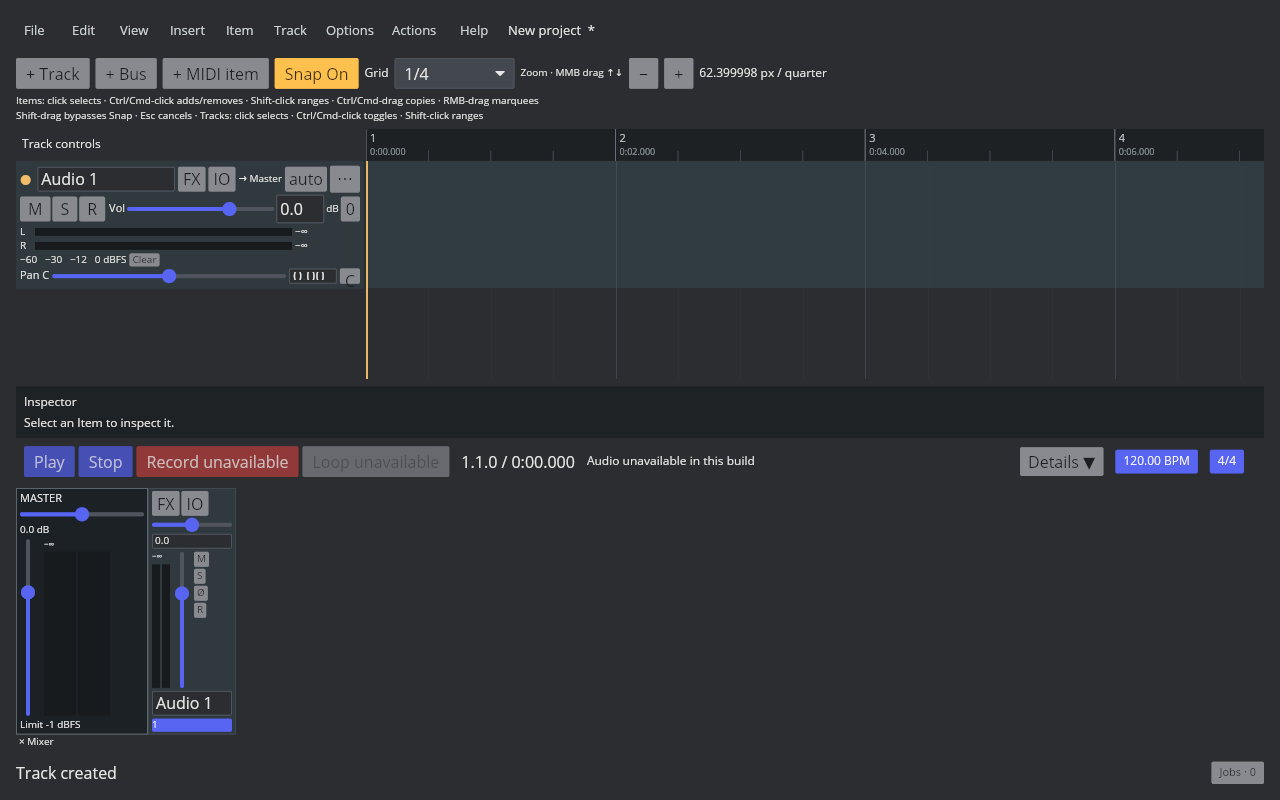
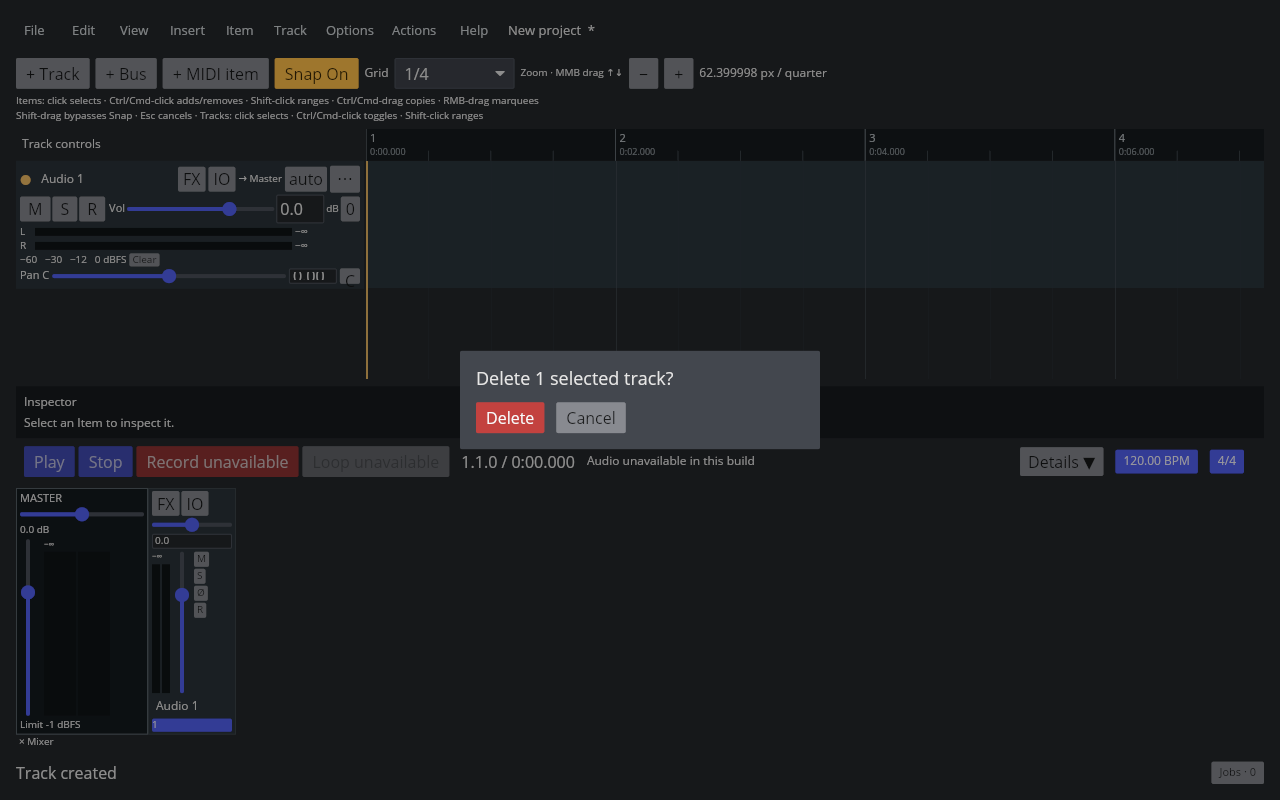
fix(input): make track names select before rename

diff --git a/crates/aaadaw/src/app/view/arrangement.rs b/crates/aaadaw/src/app/view/arrangement.rs
@@ -1162,14 +1162,27 @@ pub(super) fn track_fx_button(track: &Track) -> Element<'static, Message> {
 
 pub(super) fn track_name_input<'a>(app: &'a App, track: &'a Track) -> Element<'a, Message> {
     let track_id = track.id();
-    let has_error = app
-        .track_draft_errors
-        .contains_key(&(track_id, TrackDraftField::Name));
-    let edited_name = app
+    let name = app
         .track_name_edits
         .get(&track_id)
         .map_or(track.name(), String::as_str);
-    let input = text_input("Track name", edited_name)
+    if !app.track_name_edits.contains_key(&track_id) {
+        let label = mouse_area(
+            container(text(name).size(12))
+                .width(Length::Fill)
+                .padding([2, 4]),
+        )
+        .on_press(Message::Timeline(TimelineEvent::SelectTrackWithModifiers {
+            track_id,
+            modifiers: app.keyboard_modifiers,
+        }))
+        .on_double_click(Message::BeginTrackNameEdit(track_id));
+        return label.into();
+    }
+    let has_error = app
+        .track_draft_errors
+        .contains_key(&(track_id, TrackDraftField::Name));
+    let input = text_input("Track name", name)
         .id(super::super::messages::track_name_input_id(track_id))
         .on_input(move |name| Message::TrackNameChanged(track_id, name))
         .on_submit(Message::CommitTrackName(track_id))

diff --git a/crates/aaadaw/src/app/tests.rs b/crates/aaadaw/src/app/tests.rs
@@ -7325,8 +7325,20 @@ fn track_rename_is_undoable() {
     let _ = app.update(Message::AddTrack);
     let track_id = app.project.tracks()[0].id();
 
+    assert!(!app.track_name_edits.contains_key(&track_id));
+    let _ = app.update(Message::Timeline(
+        super::super::timeline::TimelineEvent::SelectTrack(track_id),
+    ));
+    assert_eq!(
+        app.timeline.delete_focus,
+        super::super::timeline::DeleteFocusTarget::TrackPanel
+    );
     let _ = app.update(Message::BeginTrackNameEdit(track_id));
     assert_eq!(app.track_name_edits.get(&track_id).unwrap(), "Audio 1");
+    assert_eq!(
+        app.timeline.delete_focus,
+        super::super::timeline::DeleteFocusTarget::TrackPanel
+    );
     let _ = app.update(Message::TrackNameChanged(track_id, "Lead Vox".to_owned()));
     let _ = app.update(Message::CommitTrackName(track_id));
     assert_eq!(app.project.tracks()[0].name(), "Lead Vox");

diff --git a/crates/aaadaw/src/app/mod.rs b/crates/aaadaw/src/app/mod.rs
@@ -9443,6 +9443,7 @@ impl App {
         self.track_name_edits
             .insert(track_id, track.name().to_owned());
         self.begin_track_draft(track_id, TrackDraftField::Name);
+        self.timeline.delete_focus = timeline::DeleteFocusTarget::TrackPanel;
         self.timeline.select_track_only(track_id);
         let input_id = messages::track_name_input_id(track_id);
         Task::batch([

diff --git a/docs/reaper-parity/progress.md b/docs/reaper-parity/progress.md
@@ -885,7 +885,7 @@ MIDI Properties 仍缺 item timebase、take playback rate/pitch/mix、剩余 sou
 
 ### 2026-10-14 Delete by focus：轨道确认与 no-prompting
 
-REAPER 7.82 原生探针在 TCP 点击后同时选中轨道与 MIDI item，再按 Delete，显示 `Delete 1 selected track?`；取消没有项目变化。将焦点保持在 TCP 并运行 Action List 的 `- no prompting` 变体会直接删除轨道及其 MIDI item，原厂状态变化计数只增加一次。AAADAW 现维护 Arrange、TrackPanel、Automation 三类最近目标区；普通 Delete 在 TrackPanel 弹确认框，Escape/Cancel/遮罩取消无修改，确认经现有依赖顺序删除事务执行；no-prompting 使用同一事务但不弹框。Arrange item 和 Automation point 根据各自目标区删除。焦点状态目前限定为主 Arrange/Mixer 内最后一次目标区交互，不等同全部 REAPER 子窗口和控件的真实键盘焦点。
+REAPER 7.82 原生探针在 TCP 点击后同时选中轨道与 MIDI item，再按 Delete，显示 `Delete 1 selected track?`；取消没有项目变化。将焦点保持在 TCP 并运行 Action List 的 `- no prompting` 变体会直接删除轨道及其 MIDI item，原厂状态变化计数只增加一次。AAADAW 现维护 Arrange、TrackPanel、Automation 三类最近目标区；普通 Delete 在 TrackPanel 弹确认框，Escape/Cancel/遮罩取消无修改，确认经现有依赖顺序删除事务执行；no-prompting 使用同一事务但不弹框。Arrange item 和 Automation point 根据各自目标区删除。实窗点击轨道名后 Delete 也已验证进入轨道确认；轨道名现在单击选中、双击才进入名称编辑。焦点状态目前限定为主 Arrange/Mixer 内最后一次目标区交互，不等同全部 REAPER 子窗口和控件的真实键盘焦点。
 
 实窗截图验证了 AAADAW 确认框和无提示删除后的空轨道状态；原厂对应截图及计数证据见 [Delete by focus runtime evidence](../verification/reaper-parity/fixtures/delete-by-focus-runtime-native.tsv)。AAADAW nightly + Cranelift 应用 551/551 测试通过；Stable workspace all-target Clippy `-D warnings` 和 fmt/diff 检查通过。未做完整焦点窗口或像素验收，`INPUT-BIND-001` 仍为 `in_progress`。
 
@@ -901,3 +901,9 @@ Core 快照/Undo、Storage schema 38 迁移、App Apply/Cancel/Undo/Redo 和 Eng
 多个 Audio/MIDI item 同时选择时，Item Properties 显示共同 Mute 值；值不一致时明确显示 Mixed values，并提供直接的 Mute all/Unmute all 目标。用户应用后，所有实际需要变化的 item 共享一个 Undo/Redo 步骤。包含 MIDI 的 selection 只有在 MIDI item 确实需要改变 mute 时才会在播放中拒绝修改，避免现有 MIDI 播放计划过期。
 
 回归验证混合 Audio/MIDI selection 的 Mixed 状态、统一 Apply、单步 Undo/Redo、Cancel，以及播放中 MIDI 改变保护和项目 I/O 忙碌时仍可编辑草稿；Nightly + Cranelift aaadaw 应用层 nextest 549/549 passed，0 skipped。Stable workspace all-target Clippy `-D warnings`、fmt 与 diff 检查通过。本轮没有 AAADAW 实窗截图或新 REAPER 探针；批量属性目前只覆盖 Mute，其他字段、混合值布局与完整原厂几何仍未完成，`ITEM-PROPERTIES-001` 保持 `in_progress`。
+
+### 2026-10-14 TCP 轨道名单击与双击编辑
+
+原有交互把轨道名单击直接交给文本输入框，导致 Delete 被输入控件消费，无法像 REAPER TCP 那样以轨道为目标。名称现在默认是只读标签：单击选择轨道并设置 TrackPanel 删除目标，双击进入现有可撤销名称编辑器；编辑中的文本控件继续接收键盘输入。实窗验证了单击后 Delete 打开轨道确认，以及双击后名称输入框获得焦点；截图和哈希分别记录在 [Delete by focus runtime evidence](../verification/reaper-parity/fixtures/delete-by-focus-runtime-native.tsv) 与 [双击编辑 fixture](../verification/reaper-parity/fixtures/track-name-double-click-aaadaw.tsv)。
+
+Nightly + Cranelift AAADAW 测试 551/551 passed；Stable workspace all-target Clippy `-D warnings`、fmt 和 diff 检查通过。`track_rename_is_undoable` 覆盖名称编辑、提交和可撤销行为。该修正只覆盖 TCP/MCP 名称控件；`INPUT-FOCUS-001` 继续 `in_progress`，完整文本控件、键盘布局、插件和子窗口焦点矩阵尚未验收。

diff --git a/docs/verification/reaper-parity/action-list-and-input.md b/docs/verification/reaper-parity/action-list-and-input.md
@@ -120,7 +120,7 @@ AAADAW 注册稳定 ID `item.snap-left`、`item.snap-right` 与 `item.snap-neare
 
 Linux REAPER 7.82 / Default 7 的默认动作导出 `linux-7.82/actions.tsv` 记录 Main action 40697 `Remove items/tracks/envelope points (depending on focus)` 的默认键为 Delete；相邻的 40006 `Item: Remove items` 没有默认键。隔离 REAPER 与 AAADAW 的 701×475 Action List 窗口截图保存在[参照](fixtures/delete-by-focus-action-list-native.png)和[当前 AAADAW](fixtures/delete-by-focus-no-prompt-aaadaw.png)。两边均显示主动作与无提示变体；默认动作 TSV 只为主动作给出 40697，因此无提示变体使用 AAADAW 稳定 ID `edit.delete-focused-no-prompting`，不绑定默认键。Item 菜单命令 `Remove items` 也不绑定快捷键，Delete 只绑定 `edit.delete-focused`，不再错误显示 Delete/Backspace。
 
-AAADAW 现按最近一次目标区交互路由 Delete：Arrange 的 item/空白区选择指向 items，TCP/MCP 轨道选择指向 tracks，automation 点选择指向 automation point。轨道面板获得目标后，普通 Delete 显示 `Delete N selected track(s)?` 确认框；Cancel、Escape 或点遮罩不改工程，确认后依赖轨道先删，整组只占一步 Undo。`edit.delete-focused-no-prompting` 则直接执行同一轨道事务。两种入口都只作用于当前目标区，不再按“有 item 就优先”跨区猜焦点。
+AAADAW 现按最近一次目标区交互路由 Delete：Arrange 的 item/空白区选择指向 items，TCP/MCP 轨道选择指向 tracks，automation 点选择指向 automation point。TCP/MCP 名称默认显示为不可编辑标签；单击名称选轨，双击进入文本编辑，编辑时文本控件按自身焦点处理 Delete。轨道面板获得目标后，普通 Delete 显示 `Delete N selected track(s)?` 确认框；Cancel、Escape 或点遮罩不改工程，确认后依赖轨道先删，整组只占一步 Undo。`edit.delete-focused-no-prompting` 则直接执行同一轨道事务。两种入口都只作用于当前目标区，不再按“有 item 就优先”跨区猜焦点。
 
 隔离 REAPER 探针选中一条轨道和一个 MIDI item 后，点击 TCP 并按 Delete，原厂弹出 `Delete 1 selected track?`；取消时项目没有变化。保持 TCP 目标再从 Action List Run 无提示变体，轨道与 MIDI item 被直接移除，探针状态从 1/1 变成 0/0，原厂项目状态只新增一次。见 [原厂确认框](fixtures/delete-track-confirmation-native.png)、[原厂无提示执行后](fixtures/delete-track-no-prompt-native.png) 和 [运行时 TSV](fixtures/delete-by-focus-runtime-native.tsv)。AAADAW 的 [确认框](fixtures/delete-track-confirmation-aaadaw.png) 和[无提示执行后](fixtures/delete-track-no-prompt-aaadaw.png) 截图也由 Linux 主窗口实窗采集；应用回归覆盖 Arrange/TrackPanel 目标切换、混合 item/track 选择、取消/确认、无提示删除、原子 Undo/Redo 和 automation point 删除。
 

diff --git a/docs/verification/reaper-parity/input-focus.md b/docs/verification/reaper-parity/input-focus.md
@@ -14,6 +14,8 @@
 
 专项回归 `focused_track_name_editor_routes_native_text_escape_and_undo_keys` 覆盖同一分流：捕获的 Space 不生成全局快捷键，捕获的 Escape 取消轨道名称草稿且保留两种范围，忽略的 `Ctrl+Z` 撤销最近的插轨且保留时间范围。该测试通过 nightly+Cranelift nextest 1/1。
 
+REAPER 的 TCP 轨道名单击选中轨道，文本编辑需要双击或明确的 Rename 命令。AAADAW 现在默认渲染只读轨道名：单击通过 TrackPanel 路由，双击打开原有可撤销名称编辑器；编辑器获得焦点后仍由文本控件接收 Delete。实际 AAADAW 双击截图显示名称输入框获得焦点，步骤与 SHA-256 见[双击编辑 TSV](fixtures/track-name-double-click-aaadaw.tsv)和[双击编辑截图](fixtures/track-name-double-click-aaadaw.png)。Delete by focus 的 AAADAW 实窗截图显示单击名称后进入轨道确认框，详见[运行时证据 TSV](fixtures/delete-by-focus-runtime-native.tsv)和[轨道删除确认截图](fixtures/delete-track-confirmation-aaadaw.png)。
+
 ## Action List Filter
 
 在同一 Linux REAPER 7.82 / Default 7 隔离会话打开 Action List（40605），点击 Filter 后输入 `undo`，列表显示 `Edit: Undo` 与 `Edit: Show undo history window`。Filter 聚焦时按 `Ctrl+Z`，查询和临时工程均不变：轨道仍为 1 条，传输保持停止，项目状态计数仍为 2。关闭 Action List、把焦点交还主窗口后再次按 `Ctrl+Z`，轨道数降为 0，状态计数升至 3。Filter 末尾输入空格不会启动播放；Filter 聚焦时 Escape 关闭 Action List。逐步状态见 [原厂 TSV](fixtures/action-list-focus-native.tsv)，按键前后截图见 [搜索](fixtures/action-list-search-before-ctrl-z-native.png)、[Ctrl+Z](fixtures/action-list-search-after-ctrl-z-native.png)、[空格](fixtures/action-list-filter-space-native.png)和 [Escape](fixtures/action-list-filter-escape-native.png)。可复现探针为 [probe-action-list-focus.lua](../../../scripts/reaper_parity/probe-action-list-focus.lua)；测试使用隔离未保存工程，Xvfb 下音频设备关闭，传输全程停止。
